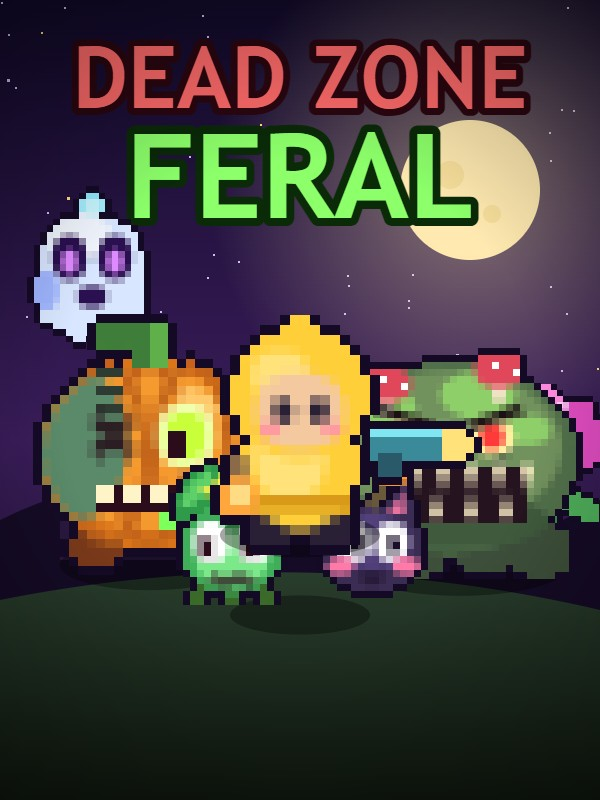
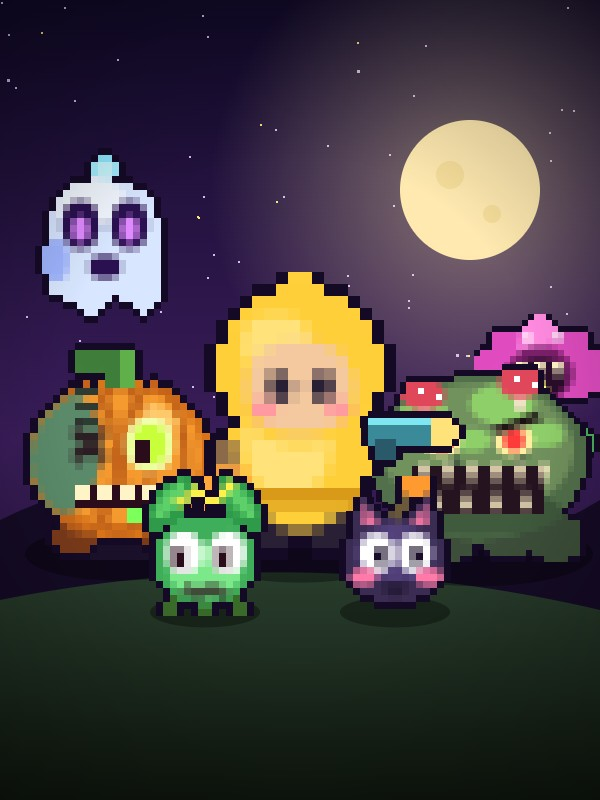
Feral: card art without the painted title (matches the other portal cards); the player can no longer get trapped at windows: windows, their yards and doors are solid for the player, and an overlap is resolved to the nearest free floor; trap tests for every window and door (touch, keyboard, controlle

diff --git a/tools-feral/rules-trap-test.js b/tools-feral/rules-trap-test.js
@@ -1,0 +1,95 @@
+// Offline checks that the player can never get trapped in a window, its yard, a door, a wall or scenery. Run: node tools-feral/rules-trap-test.js
+const assert = require('assert'), path = require('path');
+require(path.join(__dirname, '..', 'public', 'feral', 'js', 'data.js'));
+require(path.join(__dirname, '..', 'public', 'feral', 'js', 'sim.js'));
+const D = globalThis.DZF, T16 = D.T, K = D.K;
+let passed = 0; const test = (n, f) => { try { f(); passed++; console.log('  ok   ' + n); } catch (e) { console.error('  FAIL ' + n + '\n       ' + (e.stack || e.message).split('\n').slice(0, 4).join('\n       ')); process.exitCode = 1; } };
+function fresh(seed) { const g = D.createGame({ seed: seed || 1 }); g.state = 'intermission'; g.timer = 9999; g.points = 100000; g.player.x = 50.5 * T16; g.player.y = 36.5 * T16; return g; }
+const HEADINGS = Array.from({ length: 16 }, (_, i) => i / 16 * Math.PI * 2);
+const tileOf = (g) => g.kindAt(Math.floor(g.player.x / T16), Math.floor(g.player.y / T16));
+function walkInvariant(g, ang, mag, frames, label) {
+  for (let i = 0; i < frames; i++) {
+    g.update(1 / 60, { mx: Math.cos(ang) * mag, my: Math.sin(ang) * mag }); g.events.length = 0;
+    assert.ok(!g.playerStuck(), label + ': overlapping something solid at frame ' + i);
+    assert.strictEqual(tileOf(g), K.FLOOR, label + ': standing on open floor at frame ' + i);
+  }
+}
+
+test('windows: from every window of every area, walking into it in 16 directions (straight, diagonal, sliding along it, slow and fast) never overlaps it or traps the player: boarded, half broken or fully broken', () => {
+  let walks = 0; const g0 = fresh(); assert.strictEqual(g0.map.barriers.length, 32);
+  for (const b0 of g0.map.barriers) for (const planks of [b0.max, 3, 0]) for (const mag of [1, 0.45]) for (const ang of HEADINGS) {
+    const g = fresh(); const b = g.map.barriers[b0.id]; b.planks = planks;
+    g.player.x = (b.x + b.w / 2) * T16 + b.dir[0] * T16 * 1.3; g.player.y = (b.y + b.h / 2) * T16 + b.dir[1] * T16 * 1.3;
+    assert.strictEqual(tileOf(g), K.FLOOR, 'the start spot is floor (window ' + b.id + ')');
+    walkInvariant(g, ang, mag, 70, 'window ' + b.id + ' (' + b.side + ' of ' + g.map.rooms[b.room].name + ') planks ' + planks + ' heading ' + ang.toFixed(2));
+    let freed = false;       // wherever the walk ended, some direction always leads away (the player is never held fast)
+    for (const back of HEADINGS) {
+      const gg = D.createGame({ seed: 1 }); gg.map.barriers[b.id].planks = planks; gg.player.x = g.player.x; gg.player.y = g.player.y; const x0 = gg.player.x, y0 = gg.player.y;
+      for (let i = 0; i < 40; i++) { gg.update(1 / 60, { mx: Math.cos(back), my: Math.sin(back) }); gg.events.length = 0; }
+      if (Math.hypot(gg.player.x - x0, gg.player.y - y0) > 20) { freed = true; break; }
+    }
+    assert.ok(freed, 'window ' + b.id + ': the player can always walk away again'); walks++;
+  }
+  assert.ok(walks > 3000, 'tested ' + walks + ' walks');
+});
+
+test('windows: leaning on a broken opening is blocked like a wall; repair works from the front (hold USE) and finishes the window without ever trapping the player', () => {
+  for (const b0 of fresh().map.barriers) {
+    const g = fresh(); const b = g.map.barriers[b0.id]; b.planks = 0;
+    g.player.x = (b.x + b.w / 2) * T16 + b.dir[0] * T16 * 1.2; g.player.y = (b.y + b.h / 2) * T16 + b.dir[1] * T16 * 1.2;
+    for (let i = 0; i < 60; i++) { g.update(1 / 60, { mx: -b.dir[0], my: -b.dir[1] }); g.events.length = 0; }
+    assert.ok(!g.playerStuck()); assert.strictEqual(tileOf(g), K.FLOOR); assert.ok(/Repair/.test(g.prompt ? g.prompt.label : ''), 'the repair prompt shows in front of window ' + b.id);
+    for (let i = 0; i < 60 * 4; i++) { g.update(1 / 60, { interactHeld: true, mx: -b.dir[0], my: -b.dir[1] }); g.events.length = 0; assert.ok(!g.playerStuck()); }
+    assert.strictEqual(b.planks, b.max, 'fully repaired from the front (window ' + b.id + ')');
+  }
+});
+
+test('doors: a closed door is a wall for the player from every direction; once bought the player walks through to the other area and around inside the doorway', () => {
+  for (const d0 of fresh().map.doors) {
+    const g = fresh(); const d = g.map.doors.find((x) => x.id === d0.id); const cx = (d.x + d.w / 2) * T16, cy = (d.y + d.h / 2) * T16;
+    const starts = [[cx, d.y * T16 - 1.3 * T16], [cx, (d.y + d.h) * T16 + 1.3 * T16], [d.x * T16 - 1.3 * T16, cy], [(d.x + d.w) * T16 + 1.3 * T16, cy]]
+      .filter(([x, y]) => g.kindAt(Math.floor(x / T16), Math.floor(y / T16)) === K.FLOOR && g.map.area[Math.floor(y / T16) * g.map.w + Math.floor(x / T16)] === 0);
+    assert.strictEqual(starts.length, 1, 'door ' + d.id + ' has exactly one barn-side approach');
+    for (const mag of [1, 0.5]) for (const ang of HEADINGS) { const g2 = fresh(); g2.player.x = starts[0][0]; g2.player.y = starts[0][1]; walkInvariant(g2, ang, mag, 80, 'closed door ' + d.id + ' heading ' + ang.toFixed(2)); }
+    const g3 = fresh(); g3.player.x = starts[0][0]; g3.player.y = starts[0][1]; g3.update(1 / 60, {}); g3.update(1 / 60, { interactPressed: true });
+    assert.ok(g3.map.doors.find((x) => x.id === d.id).open, 'door ' + d.id + ' opened');
+    const vertical = d.w < d.h, dirx = vertical ? 0 : Math.sign(cx - starts[0][0]), diry = vertical ? Math.sign(cy - starts[0][1]) : 0;
+    walkInvariant(g3, Math.atan2(diry, dirx), 1, 60 * 3, 'through door ' + d.id);
+    assert.strictEqual(g3.map.area[Math.floor(g3.player.y / T16) * g3.map.w + Math.floor(g3.player.x / T16)], d.id, 'door ' + d.id + ': the player arrived in ' + g3.map.rooms[d.id].name);
+    for (const ang of HEADINGS) {
+      const g4 = fresh(); const dd = g4.map.doors.find((x) => x.id === d.id); dd.open = true; g4.map.rooms[d.id].unlocked = true;
+      for (let y = dd.y; y < dd.y + dd.h; y++) for (let x = dd.x; x < dd.x + dd.w; x++) g4.map.tiles[y * g4.map.w + x] = K.FLOOR;
+      g4.player.x = cx; g4.player.y = cy; walkInvariant(g4, ang, 1, 80, 'inside open door ' + d.id + ' heading ' + ang.toFixed(2));
+    }
+  }
+});
+
+test('if the player ever overlaps something solid (a window opening or its yard, a wall, a closed door, a crate, a machine) they are put on the nearest open floor straight away', () => {
+  const g0 = fresh(); const spots = [];
+  for (const b of g0.map.barriers) spots.push([(b.x + b.w / 2) * T16, (b.y + b.h / 2) * T16, 'window ' + b.id]);
+  for (const p of g0.map.pockets) spots.push([(p.x + p.w / 2) * T16, (p.y + p.h / 2) * T16, 'yard ' + p.barrier]);
+  for (const d of g0.map.doors) spots.push([(d.x + d.w / 2) * T16, (d.y + d.h / 2) * T16, 'door ' + d.id]);
+  for (const bl of g0.map.blocks) spots.push([(bl.x + bl.w / 2) * T16, (bl.y + bl.h / 2) * T16, 'block ' + bl.style]);
+  for (const m of g0.map.machines) spots.push([(m.x + 1) * T16, (m.y + 0.5) * T16, 'machine ' + m.id]);
+  for (const wb of g0.map.wallbuys) spots.push([(wb.x + 0.5) * T16, (wb.y + 0.5) * T16, 'wall ' + wb.weapon]);
+  for (const planks of [0, 6]) for (const [x, y, what] of spots) {
+    const g = fresh(); g.map.barriers.forEach((b) => { b.planks = planks; }); g.player.x = x; g.player.y = y;
+    assert.ok(g.playerStuck(), what + ' is solid for the player'); g.update(1 / 60, {}); g.events.length = 0;
+    assert.ok(!g.playerStuck(), what + ': pushed out'); assert.strictEqual(tileOf(g), K.FLOOR, what + ': on open floor');
+    assert.ok(Math.hypot(g.player.x - x, g.player.y - y) < 5 * T16, what + ': the NEAREST free spot, not far away');
+  }
+  // the exact old trap: standing in a broken window opening while the boards are nailed back
+  const g = fresh(); const b = g.map.barriers[0]; b.planks = 0; g.player.x = (b.x + b.w / 2) * T16; g.player.y = (b.y + b.h / 2) * T16; b.planks = b.max;
+  for (let i = 0; i < 5; i++) g.update(1 / 60, { mx: 1, my: 1 }); assert.ok(!g.playerStuck());
+});
+
+test('a player wandering the whole map for four minutes (every door open, windows being broken and repaired around them) never overlaps anything solid', () => {
+  const g = fresh(3); for (const d of g.map.doors) { d.open = true; g.map.rooms[d.area].unlocked = true; for (let y = d.y; y < d.y + d.h; y++) for (let x = d.x; x < d.x + d.w; x++) g.map.tiles[y * g.map.w + x] = K.FLOOR; }
+  let ang = 0; for (let i = 0; i < 60 * 240; i++) {
+    if (i % 37 === 0) ang += 0.9 + (i % 5) * 0.4; const mag = i % 200 < 20 ? 0.4 : 1;
+    if (i % 300 === 0) { const b = g.map.barriers[(i / 300) % 32 | 0]; b.planks = (i / 300) % 3 === 0 ? 0 : 6; }
+    g.update(1 / 60, { mx: Math.cos(ang) * mag, my: Math.sin(ang) * mag }); g.events.length = 0; assert.ok(!g.playerStuck(), 'overlap at frame ' + i); g.enemies.length = 0; g.toSpawn = 0; g.timer = 9999;
+  }
+});
+
+console.log(process.exitCode ? '\nSome checks FAILED' : `\nAll ${passed} checks passed`);

diff --git a/public/feral/js/sim.js b/public/feral/js/sim.js
@@ -47,10 +47,14 @@
       return true;                                              // wall, closed door, scenery, water, machines
     }
     function bulletSolid(tx, ty) { const k = kindAt(tx, ty); return k === K.WALL || k === K.DOOR || k === K.BLOCK || k === K.MACHINE; }   // shots fly over water and through windows
-    function blocked(x, y, r) {
+    // The player may only ever stand on open floor: every wall, window opening (boarded or broken), window yard, closed door, crate and machine is solid for the player.
+    // (Creatures use solid(): they do walk through a window once its boards are gone.)
+    function solidPlayer(tx, ty) { return kindAt(tx, ty) !== K.FLOOR; }
+    function blocked(x, y, r, fn) {
+      fn = fn || solid;
       const x0 = Math.floor((x - r) / T), x1 = Math.floor((x + r) / T), y0 = Math.floor((y - r) / T), y1 = Math.floor((y + r) / T);
       for (let ty = y0; ty <= y1; ty++) for (let tx = x0; tx <= x1; tx++) {
-        if (!solid(tx, ty)) continue;
+        if (!fn(tx, ty)) continue;
         const cx = clamp(x, tx * T, tx * T + T), cy = clamp(y, ty * T, ty * T + T);
         if ((x - cx) * (x - cx) + (y - cy) * (y - cy) < r * r) return true;
       }
@@ -58,9 +62,20 @@
     }
     function move(e, dx, dy, ghost) {
       if (ghost) { e.x = clamp(e.x + dx, 8, W * T - 8); e.y = clamp(e.y + dy, 8, H * T - 8); return; }
-      if (dx && !blocked(e.x + dx, e.y, e.r)) e.x += dx;
-      if (dy && !blocked(e.x, e.y + dy, e.r)) e.y += dy;
+      const fn = e === P ? solidPlayer : solid;
+      if (dx && !blocked(e.x + dx, e.y, e.r, fn)) e.x += dx;
+      if (dy && !blocked(e.x, e.y + dy, e.r, fn)) e.y += dy;       // each axis on its own, so the player slides along a wall instead of sticking to it
     }
+    // If the player ever overlaps something solid (a board nailed back while standing in the opening, a teleport, anything), put them on the nearest free spot.
+    function unstick() {
+      if (!blocked(P.x, P.y, P.r, solidPlayer)) return false;
+      for (let rad = 1; rad <= 96; rad += 1) for (let i = 0; i < 32; i++) {
+        const a = i / 32 * Math.PI * 2, x = P.x + Math.cos(a) * rad, y = P.y + Math.sin(a) * rad;
+        if (x > 8 && y > 8 && x < W * T - 8 && y < H * T - 8 && !blocked(x, y, P.r, solidPlayer)) { P.x = x; P.y = y; g.events.length < EV_CAP && emit({ t: 'unstick' }); return true; }
+      }
+      return false;
+    }
+    g.unstick = unstick; g.playerStuck = () => blocked(P.x, P.y, P.r, solidPlayer);
     function lineClear(x0, y0, x1, y1, fn) {                    // is the straight line free of tiles where fn(tx,ty) is true?
       const d = Math.hypot(x1 - x0, y1 - y0), n = Math.max(1, Math.ceil(d / 5));
       for (let i = 1; i < n; i++) { const t = i / n; if (fn(Math.floor((x0 + (x1 - x0) * t) / T), Math.floor((y0 + (y1 - y0) * t) / T))) return false; }
@@ -358,6 +373,7 @@
     }
 
     function updatePlayer(dt, inp) {
+      unstick();
       if (inp.aim != null) P.aim = inp.aim;
       const sp = P.speed * (P.perks.boots ? 1.22 : 1) * (P.reload > 0 ? 0.92 : 1);
       let mx = inp.mx || 0, my = inp.my || 0; const ml = Math.hypot(mx, my); if (ml > 1) { mx /= ml; my /= ml; }

diff --git a/tools-feral/make-assets.js b/tools-feral/make-assets.js
@@ -33,19 +33,8 @@
     x.fillStyle = '#150b26'; x.beginPath(); x.moveTo(0, 520); x.quadraticCurveTo(160, 440, 330, 520); x.quadraticCurveTo(470, 580, 600, 500); x.lineTo(600, H); x.lineTo(0, H); x.fill();
     x.fillStyle = '#2a1840'; x.fillRect(60, 470, 150, 90); x.beginPath(); x.moveTo(50, 470); x.lineTo(135, 410); x.lineTo(220, 470); x.fill(); x.fillStyle = '#ffb347'; x.fillRect(120, 505, 26, 40); x.fillRect(80, 490, 14, 14); x.fillRect(172, 490, 14, 14);
     const fg = x.createLinearGradient(0, 560, 0, H); fg.addColorStop(0, '#2a3f2e'); fg.addColorStop(1, '#10180f'); x.fillStyle = fg; x.beginPath(); x.moveTo(0, 600); x.quadraticCurveTo(300, 540, 600, 610); x.lineTo(600, H); x.lineTo(0, H); x.fill();
-    // title
-    x.textAlign = 'center'; x.lineJoin = 'round'; x.font = '900 86px "Trebuchet MS", "Segoe UI", sans-serif';
-    x.lineWidth = 14; x.strokeStyle = '#2a0610'; x.strokeText('DEAD ZONE', W / 2, 108); x.fillStyle = '#ff6a6a'; x.fillText('DEAD ZONE', W / 2, 108);
-    x.font = '900 118px "Trebuchet MS", "Segoe UI", sans-serif'; x.lineWidth = 16; x.strokeStyle = '#0a2a08'; x.strokeText('FERAL', W / 2, 218); x.fillStyle = '#8cff6a'; x.fillText('FERAL', W / 2, 218);
     // the cast
-    const base = 575;
-    stamp(x, A.wisp[0], 92, 355, 6.5); x.globalAlpha = 1;
-    stamp(x, A.spit[0], 545, 540, 6);
-    shadow(x, 150, base - 10, 90); stamp(x, A.glump[3][0], 150, base, 9, true);
-    shadow(x, 460, base - 10, 110); stamp(x, A.moss[0], 450, base + 4, 7);
-    shadow(x, 300, base + 40, 70); stamp(x, A.zap[0], 232, base + 30, 7); stamp(x, A.boom[0], 372, base + 30, 7);
-    shadow(x, 300, base - 40, 80); stamp(x, A.pip[4], 300, base - 20, 10);
-    x.save(); x.translate(300 + 54, base - 20 - 110); x.imageSmoothingEnabled = false; x.drawImage(A.weapon.pip, 0, -6 * 8, 18 * 8, 12 * 8); x.restore();
+const base = 560;    stamp(x, A.wisp[0], 105, 330, 7); x.globalAlpha = 1;    stamp(x, A.spit[0], 540, 470, 6);    shadow(x, 120, base - 6, 95); stamp(x, A.glump[3][0], 120, base, 7.5, true);    shadow(x, 478, base - 6, 115); stamp(x, A.moss[0], 478, base + 2, 6);    shadow(x, 300, base - 4, 95); stamp(x, A.pip[4], 300, base, 12);    shadow(x, 205, base + 52, 55); stamp(x, A.zap[0], 205, base + 56, 7);    shadow(x, 395, base + 52, 55); stamp(x, A.boom[0], 395, base + 56, 7);    x.save(); x.translate(300 + 54, base - 128); x.imageSmoothingEnabled = false; x.drawImage(A.weapon.pip, 0, -6 * 7, 18 * 7, 12 * 7); x.restore();
     const vg = x.createRadialGradient(W / 2, H / 2, H * 0.3, W / 2, H / 2, H * 0.75); vg.addColorStop(0, 'rgba(0,0,0,0)'); vg.addColorStop(1, 'rgba(0,0,0,0.5)'); x.fillStyle = vg; x.fillRect(0, 0, W, H);
     return c;
   }

diff --git a/public/feral/README.md b/public/feral/README.md
@@ -12,6 +12,7 @@ A top-down wave-survival shooter for the Deadzone Games site. Lives at `/feral/`
 ```
 node tools-feral/sim-test.js 10 25     # map checks + a bot plays up to 25 rounds on 10 seeds (no softlocks)
 node tools-feral/rules-test.js         # shop, perks, windows, power-ups, creatures, safety nets
+node tools-feral/rules-trap-test.js    # the player can never get stuck in a window, door, wall or scenery
 node tools-feral/serve.js 5173         # local server; open http://localhost:5173/feral/
 ```
 `tools-feral/` is for development only and is not needed to run the game.
